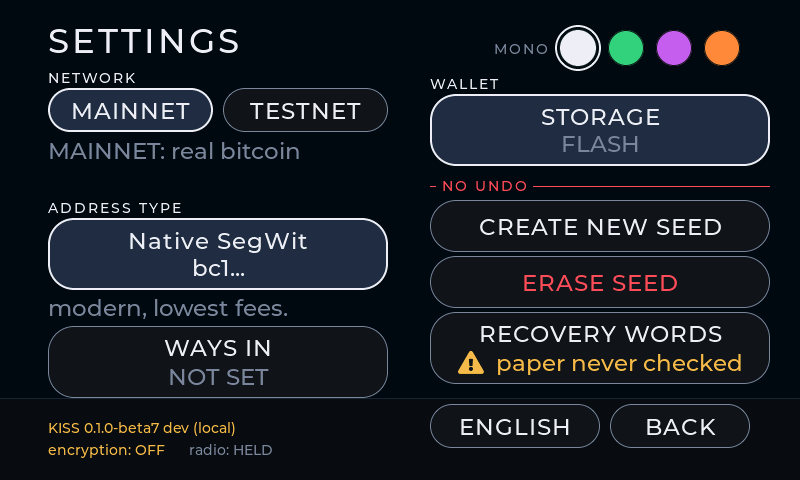
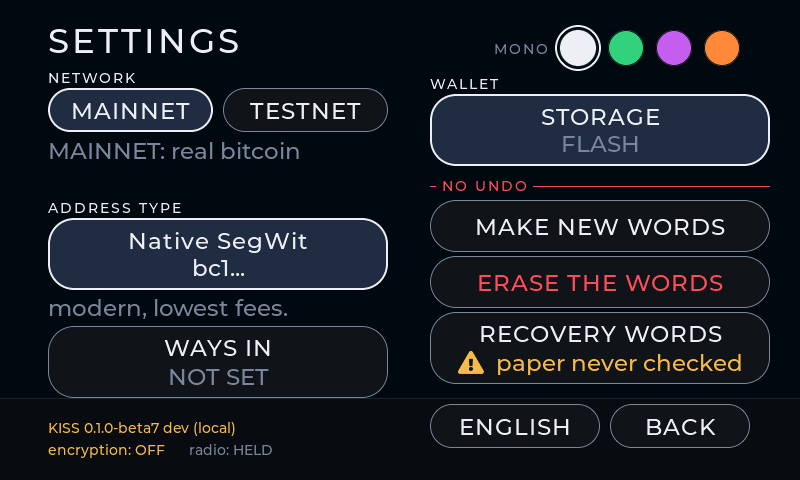
settings: destroy family stops saying "seed", says "the words"
Nine strings on the wipe / replace ritual said bare "SEED" while every other
screen used the two glossary terms. Reader arriving at "ERASE THE SEED?" cannot
map that back to the paper they wrote out during setup, and the glossary has
banned the bare word for exactly this reason since SWEEP-02.

The parallel destroy strings (WIPE_NOTE "words + passphrase restore.",
ERASED_B "the words are gone") already ran with the short "words" form, so the
new labels ("ERASE THE WORDS", "WORDS ERASED", "MAKE NEW WORDS") match a
register the screen was already half using.

English only in this commit. The other 20 locales are safety copy that has
been through native review; the glossary explicitly gates their translation
pass on a bilingual pair, not on find and replace. Followup tracked.

Also lands the two SWEEP-02 shared narrow-pill labels: CREATE_NEW "CREATE
SEED" -> "NEW WALLET", RESTORE_FROM_WORDS "RESTORE SEED" -> "RESTORE".
Surrounding screens carry the noun, so the short pill is not ambiguous.

Changed region(s): [[0.5938, 0.5625, 0.9062, 0.625], [0.5938, 0.4375, 0.9062, 0.5]]

diff --git a/main/i18n_tables.c b/main/i18n_tables.c
@@ -49,8 +49,8 @@ static const char *const tbl_en[STR_N] = {
     [STR_L_CREATE_PASS_BTN] = "CREATE PASSPHRASE",
     [STR_W_SETUP_T] = "SET UP YOUR WALLET",
     [STR_W_SETUP_S] = "there is no wallet on this device yet",
-    [STR_W_CREATE_NEW] = "CREATE SEED",
-    [STR_W_RESTORE_FROM_WORDS] = "RESTORE SEED",
+    [STR_W_CREATE_NEW] = "NEW WALLET",
+    [STR_W_RESTORE_FROM_WORDS] = "RESTORE",
     [STR_W_NEW_NOTE] = "a brand new wallet made on this device",
     [STR_W_RESTORE_NOTE] = "bring back a wallet from its recovery words",
     [STR_W_NEW_T] = "NEW WALLET",
@@ -131,13 +131,13 @@ static const char *const tbl_en[STR_N] = {
     [STR_G_TY_NATIVE_NOTE] = "modern, lowest fees.",
     [STR_G_TY_NESTED_NOTE] = "older segwit.",
     [STR_G_TY_LEGACY_NOTE] = "oldest style, highest fees.",
-    [STR_G_CREATE_NEW] = "CREATE NEW SEED",
-    [STR_G_CREATE_NOTE] = "replaces the seed here.",
-    [STR_G_WIPE] = "ERASE SEED",
+    [STR_G_CREATE_NEW] = "MAKE NEW WORDS",
+    [STR_G_CREATE_NOTE] = "replaces the recovery words here.",
+    [STR_G_WIPE] = "ERASE THE WORDS",
     [STR_G_WIPE_NOTE] = "words + passphrase restore.",
     [STR_G_NOERASE_T] = "COULD NOT ERASE",
     [STR_G_NOERASE_B] = "your words may STILL be on this device.\n\ndo not sell or give it away.\ntry the wipe again.",
-    [STR_G_ERASED_T] = "SEED ERASED",
+    [STR_G_ERASED_T] = "WORDS ERASED",
     [STR_G_ERASED_B] = "the words are gone from this device.\nnothing here can spend that wallet.\n\nyour paper + passphrase still work.",
     [STR_G_SEC_LANGUAGE] = "LANGUAGE",
     [STR_R_T] = "RECEIVE",
@@ -320,7 +320,7 @@ static const char *const tbl_en[STR_N] = {
     [STR_L_SCAN_WARN_B] = "whoever can read that QR can open\nthis wallet.\n\na photo of it is the same as the QR.\n\nthe scan is used exactly as printed.",
     [STR_L_SCAN_GO] = "SCAN IT",
     [STR_W_LOAD_TYPE_NOTE] = "type the words from your paper.",
-    [STR_G_WIPEC_T] = "ERASE THE SEED?",
+    [STR_G_WIPEC_T] = "ERASE THE WORDS?",
     [STR_G_WIPEC_B] = "the words go from this device now.\n\nonly your paper + passphrase can\nbring this wallet back.",
     [STR_G_HOLD_WIPE] = "HOLD TO ERASE",
     [STR_L_BACKUP_UNVERIFIED] = "FULL BACKUP NOT VERIFIED",
@@ -391,9 +391,9 @@ static const char *const tbl_en[STR_N] = {
     [STR_L_WARN_B_NOPASS] = "your words alone open it. anyone who reads\nthem can spend from it.\n\na passphrase added later opens a DIFFERENT\nwallet: it cannot protect this one.\n\nknow this one by its fingerprint:",
     [STR_GD_NOPASS_T] = "NOTHING TO HIDE BEHIND",
     [STR_GD_NOPASS_B] = "a spare wallet only works if your real one has a passphrase. this one has none, so every way in opens it.\n\nto use this, make a wallet with a passphrase and move your coins there.",
-    [STR_G_REPLACEC_T] = "REPLACE THE SEED?",
-    [STR_G_REPLACEC_B] = "finishing this makes a new seed and the one on this device now is replaced.\n\nyour paper + passphrase still open the old wallet. nothing changes until you finish.",
-    [STR_G_REPLACEC_GO] = "MAKE A NEW SEED",
+    [STR_G_REPLACEC_T] = "REPLACE THE WORDS?",
+    [STR_G_REPLACEC_B] = "finishing this makes new recovery words and the ones on this device now are replaced.\n\nyour paper + passphrase still open the old wallet. nothing changes until you finish.",
+    [STR_G_REPLACEC_GO] = "MAKE NEW WORDS",
     [STR_G_STORAGE_SEC] = "STORAGE",
     [STR_G_STORAGE_NOTE] = "where this wallet is saved",
     [STR_G_STORAGE_CURRENT_FMT] = "current: %s",
@@ -408,7 +408,7 @@ static const char *const tbl_en[STR_N] = {
     [STR_G_STORAGE_HOLD_AMNESIC] = "HOLD FOR AMNESIC",
     [STR_G_STORAGE_OK_T] = "STORAGE CHANGED",
     [STR_G_STORAGE_OK_FMT] = "this wallet now uses %s.\n\nthe new copy was verified before the old copy was removed.",
-    [STR_G_STORAGE_OK_AMNESIC_B] = "the saved seed was removed.\n\nafter you lock, load your recovery words or SeedQR to use this wallet again.",
+    [STR_G_STORAGE_OK_AMNESIC_B] = "the saved recovery words were removed.\n\nafter you lock, load your recovery words or SeedQR to use this wallet again.",
     [STR_G_STORAGE_FAIL_T] = "STORAGE NOT CHANGED",
     [STR_G_STORAGE_FAIL_CARD_B] = "the SD card was not found or its wallet file could not be read.\n\nwallet storage was not changed.",
     [STR_G_STORAGE_FAIL_VERIFY_B] = "the new copy could not be verified.\n\nwallet storage was not changed.",
